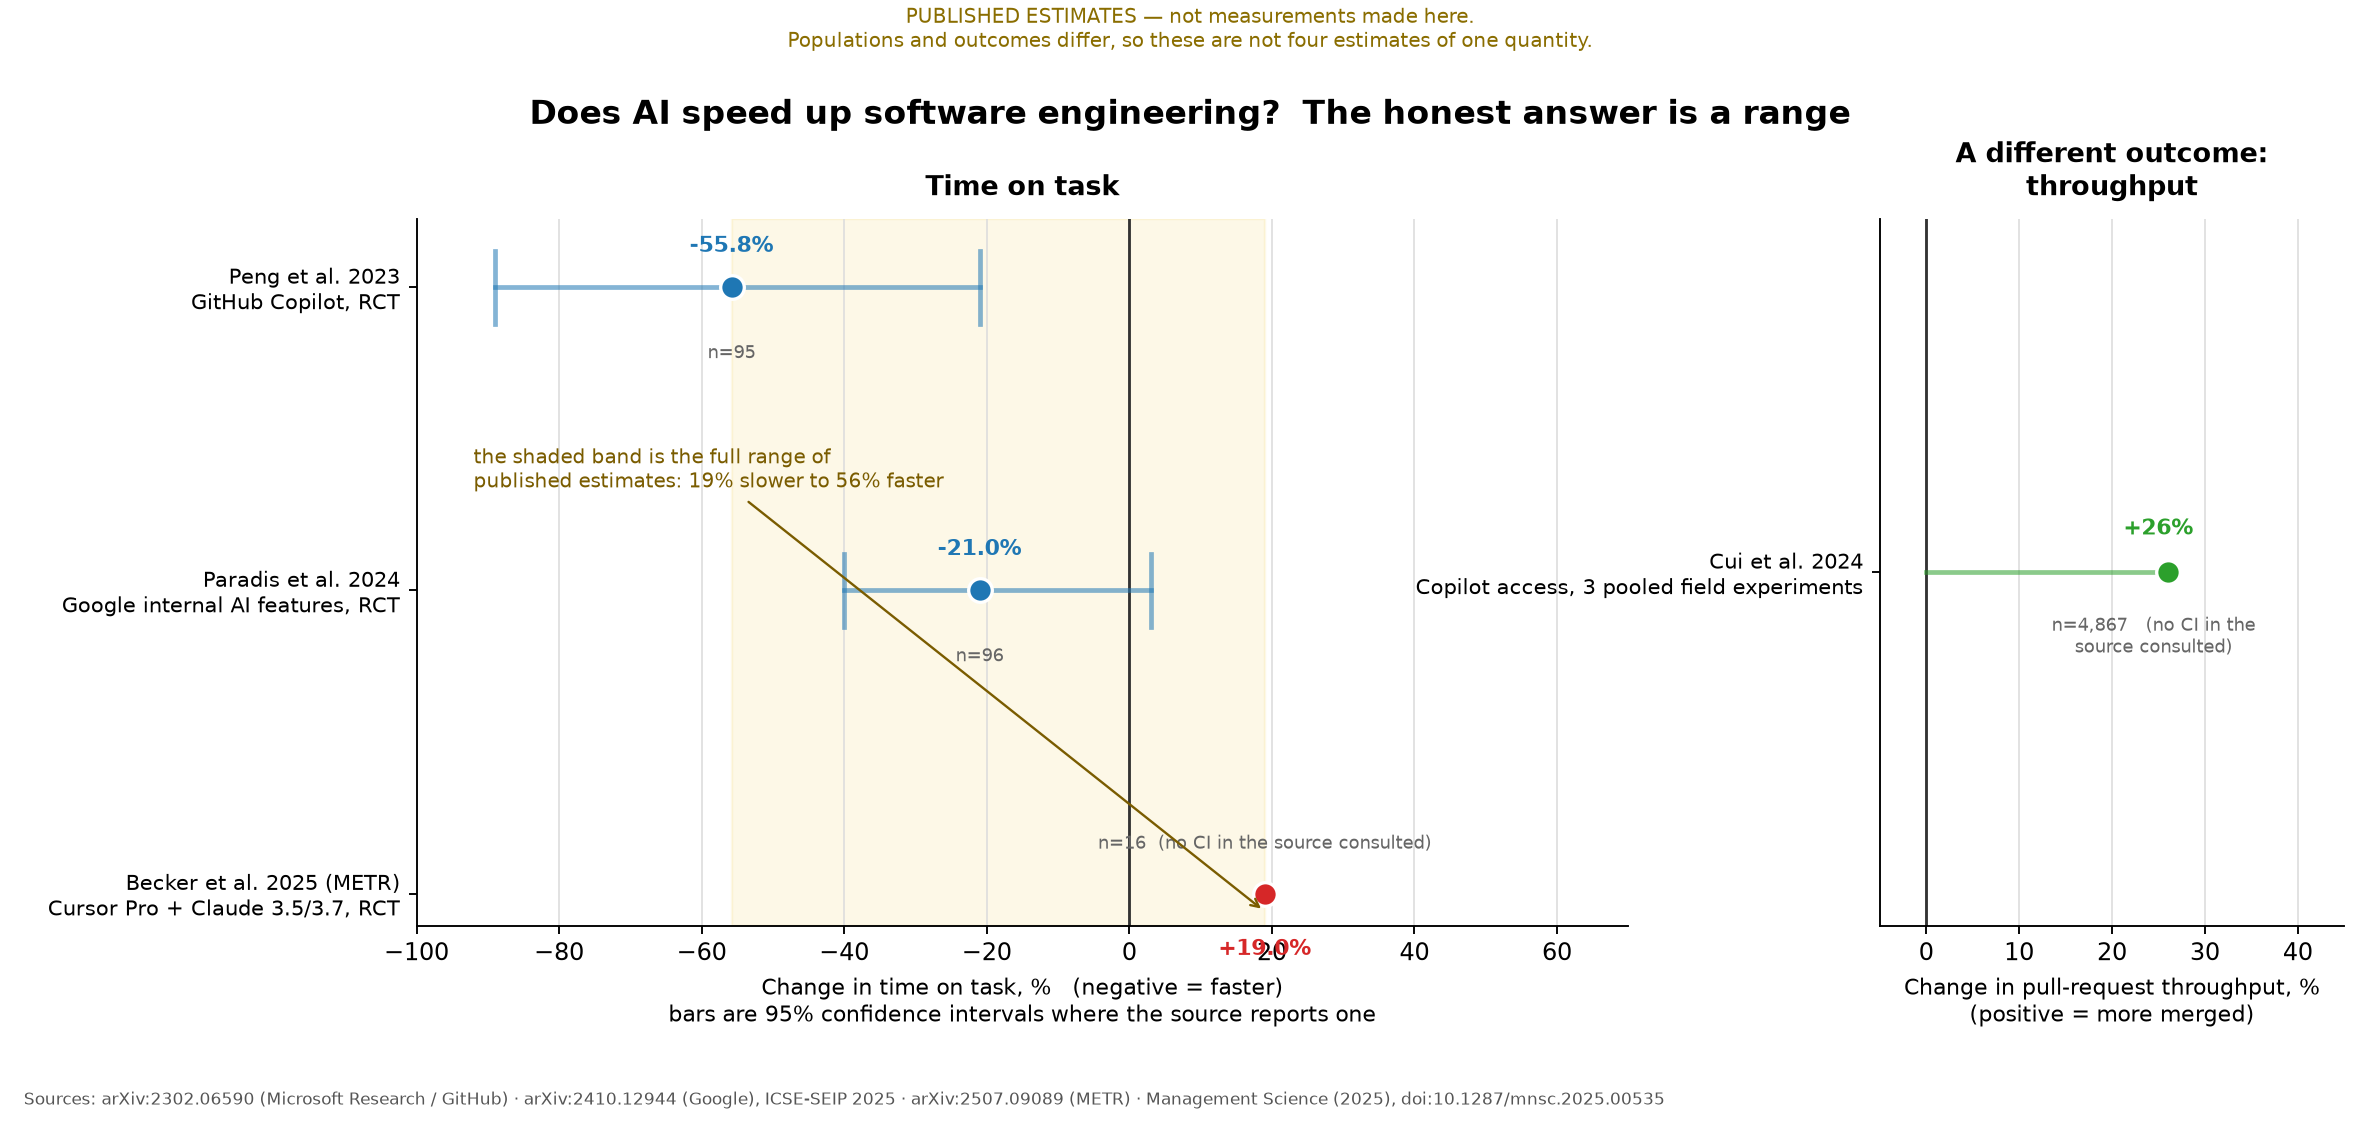
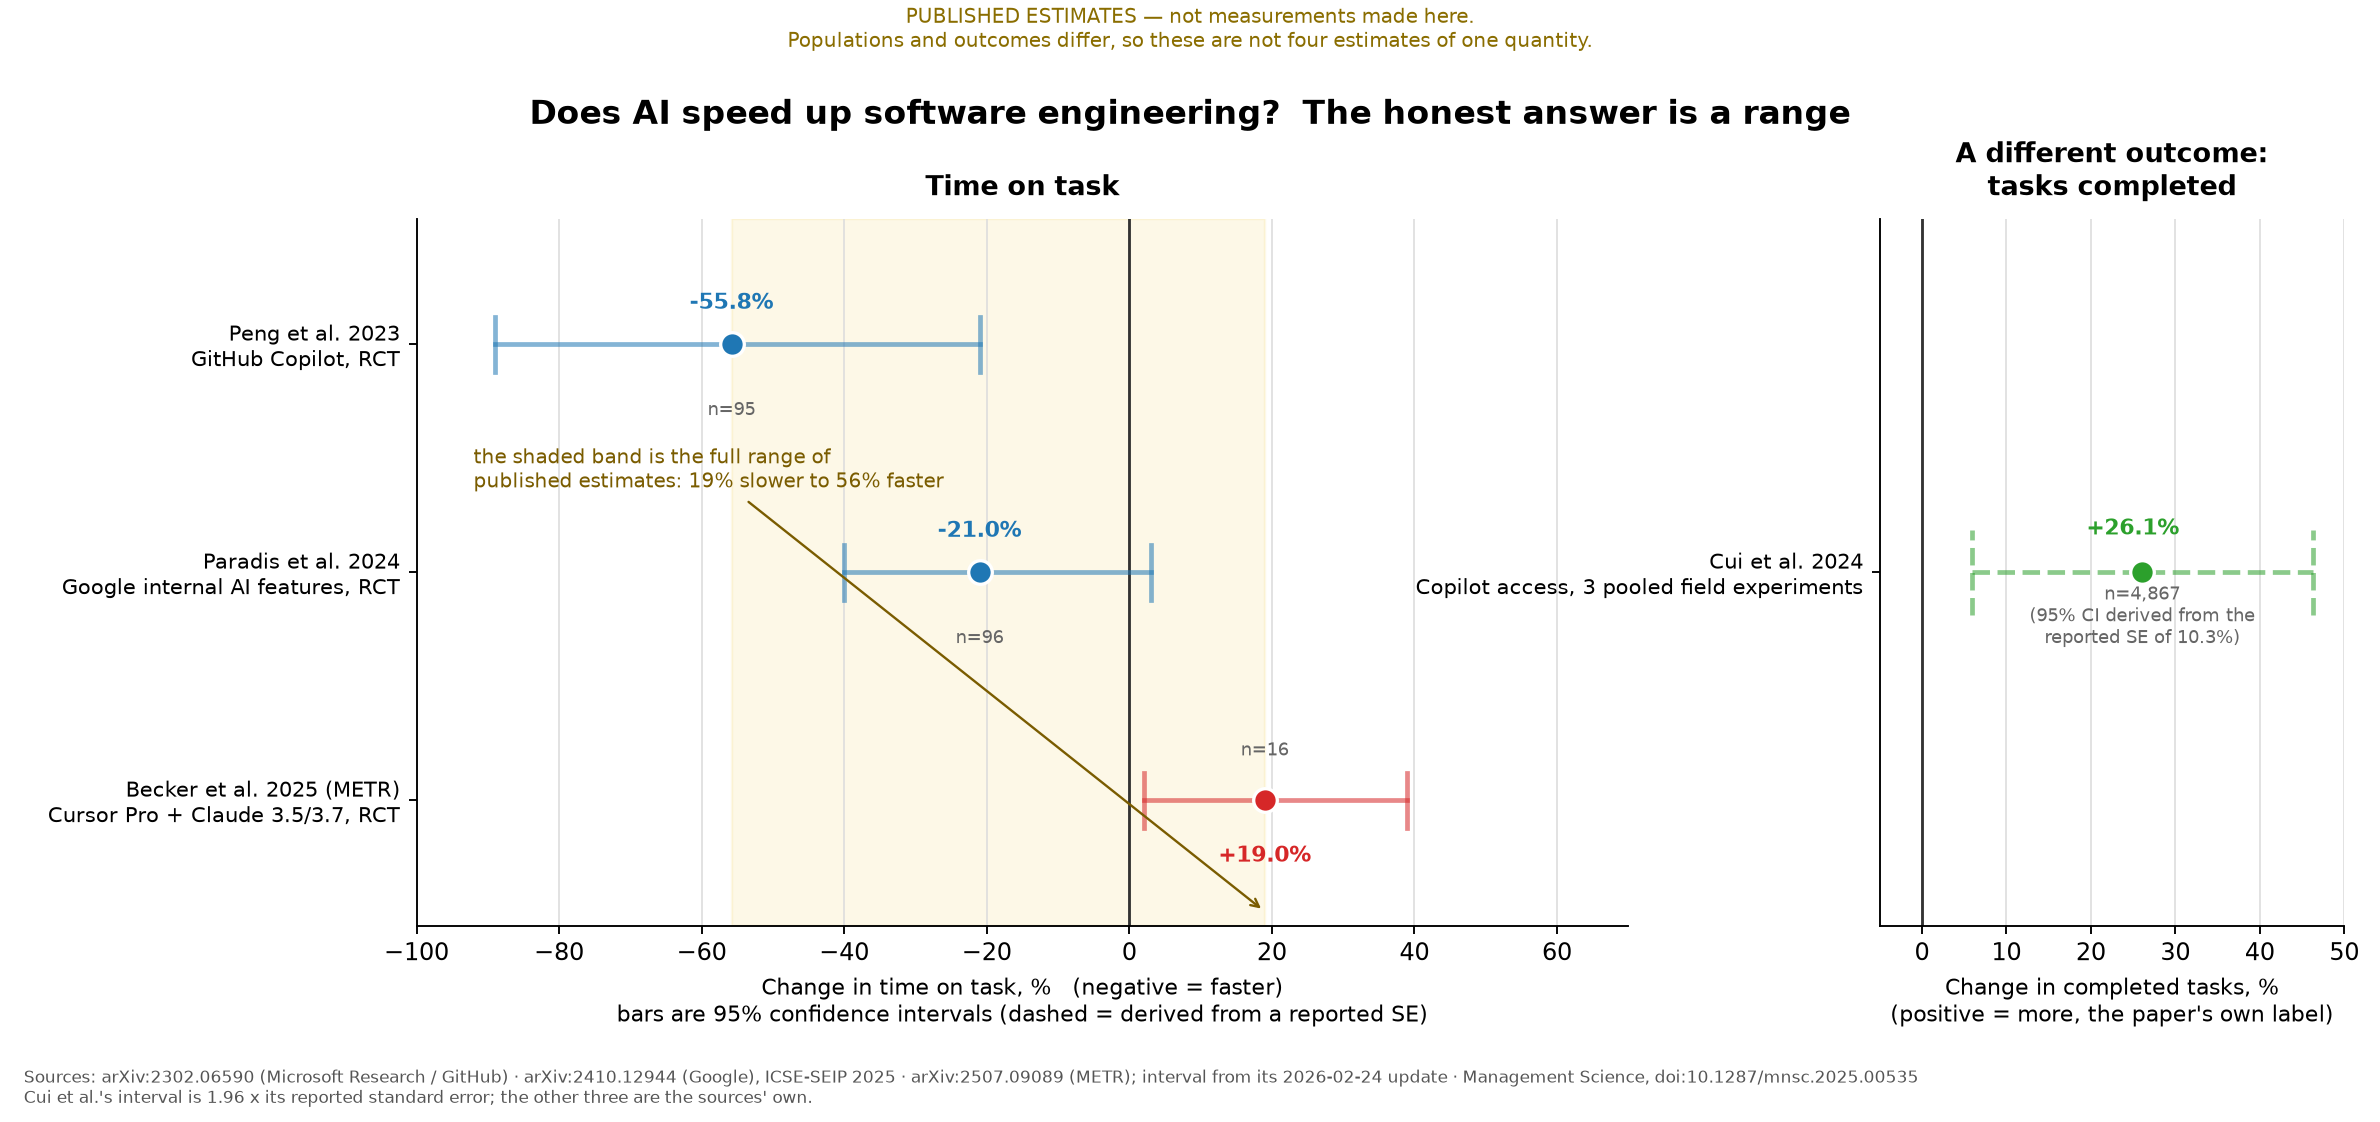
Give every evidence row its interval, and stop the label escaping the axes
Figure 1's right panel printed '(no CI in the source consulted)' against Cui et
al., and so did the METR row. Both sources report uncertainty; the note recorded
a gap in the reading, not in the literature.

* METR: 95% CI [+2, +39]. The paper reports HC3 intervals but prints the
  endpoints only inside a figure, so the pair is quoted from METR's 2026-02-24
  update, which restates it in prose.
* Cui et al.: 26.08% with a reported standard error of 10.3%, which the paper
  publishes instead of an interval. The bar drawn is 1.96 x that SE - arithmetic
  on a published number - so it is drawn dashed and labelled as derived.

interval_of() now answers 'what interval, from where' in one place and
verify_evidence_intervals() fails the --verify run if a row carries no interval
or if the derived one is not that arithmetic.

Also fixes a rendering defect in the same figure: the bottom row's +19.0% label
sat below the axes and collided with the x-axis caption. Explicit y-limits.

Panel 2's outcome is relabelled 'completed tasks', the paper's own wording,
rather than 'pull requests merged', which the source consulted does not say.

diff --git a/tools/plot_ai_catalyst.py b/tools/plot_ai_catalyst.py
@@ -79,9 +79,14 @@ EVIDENCE = [
         "n": 16,
         "measure": "time_on_task",
         "effect": 19.0,
-        "ci": None,
+        # The released paper says it reports 95% confidence intervals (HC3 standard
+        # errors) but prints the endpoints only inside its Figure 15. METR restated
+        # the pair in prose in its 2026-02-24 design update, which is where this is
+        # quoted from rather than eyeballed off a chart.
+        "ci": (2.0, 39.0),
+        "ci_note": "quoted from METR's 2026-02-24 update",
         "task": "Real maintenance tasks in mature\nprojects they maintain",
-        "source": "arXiv:2507.09089 (METR)",
+        "source": "arXiv:2507.09089 (METR); interval from its 2026-02-24 update",
     },
     {
         "key": "cui2024",
@@ -90,12 +95,63 @@ EVIDENCE = [
         "population": "4,867 developers across\nMicrosoft, Accenture and others",
         "n": 4867,
         "measure": "throughput",
-        "effect": 26.0,
+        "effect": 26.08,
+        # The paper prints an effect and a standard error, not an interval:
+        # "a 26.08% increase (standard error: 10.3%) in completed tasks". The bar
+        # drawn is the normal approximation to that pair. It is arithmetic on a
+        # published number, not a new estimate, and it is drawn dashed and labelled
+        # as derived so the two cannot be confused.
         "ci": None,
-        "task": "Daily work, not a set task;\noutcome is pull requests merged",
-        "source": "Management Science (2025), doi:10.1287/mnsc.2025.00535",
+        "se": 10.3,
+        "ci_note": "derived from the reported SE of 10.3%",
+        "task": "Daily work, not a set task;\noutcome is completed tasks",
+        "source": "Management Science, doi:10.1287/mnsc.2025.00535",
     },
 ]
+
+# Normal quantile for a 95% interval, used only to turn a *reported* standard error
+# into the interval drawn beside it. Nothing here is estimated from data.
+Z_95 = 1.959963984540054
+
+
+def interval_of(entry):
+    """The 95% interval for one evidence row, and where it came from.
+
+    Returns ``(low, high, provenance)``, or ``(None, None, "absent")`` when the
+    source consulted gives neither an interval nor a standard error. Provenance is:
+
+    * ``"reported"`` — the source prints the interval itself.
+    * ``"derived"``  — the source prints a standard error; the interval is
+      ``effect +/- 1.96 * se``, drawn dashed and labelled as derived.
+    * ``"absent"``   — nothing to draw. No row is in this state today; the branch
+      exists so that a future row cannot be plotted as if it had an interval.
+
+    This function exists because Figure 1 once printed "(no CI in the source
+    consulted)" against two rows whose sources both *do* report uncertainty. The
+    defect was in the reading, not the literature, so the question "what interval
+    does this row have, and where did it come from?" is now asked in one place.
+    """
+    if entry.get("ci"):
+        return entry["ci"][0], entry["ci"][1], "reported"
+    if entry.get("se"):
+        half = Z_95 * entry["se"]
+        return entry["effect"] - half, entry["effect"] + half, "derived"
+    return None, None, "absent"
+
+
+def interval_note(entry, provenance, narrow=False):
+    """The sample-size caption under a point, plus how its interval was obtained."""
+    note = f"n={entry['n']:,}"
+    if provenance == "derived":
+        why = f"95% CI derived from the reported SE of {entry['se']:.1f}%"
+    elif provenance == "absent":
+        why = "no interval in the source consulted"
+    else:
+        return note
+    if not narrow:
+        return f"{note}  ({why})"
+    head, _, tail = why.partition(" the ")
+    return f"{note}\n({head} the\n{tail})"
 
 # ── Model parameters (declared, not measured) ───────────────────────────────
 #
@@ -245,11 +301,14 @@ def figure_evidence(out_dir):
     ys = list(range(len(time_rows)))[::-1]
     for y, e in zip(ys, time_rows):
         colour = "#1f77b4" if e["effect"] < 0 else "#d62728"
-        if e["ci"]:
-            lo, hi = e["ci"]
-            ax1.plot([lo, hi], [y, y], color=colour, lw=2.0, alpha=0.55, zorder=2)
+        lo, hi, provenance = interval_of(e)
+        dash = "--" if provenance == "derived" else "-"
+        if lo is not None:
+            ax1.plot([lo, hi], [y, y], color=colour, lw=2.0, alpha=0.55,
+                     linestyle=dash, zorder=2)
             for edge in (lo, hi):
-                ax1.plot([edge, edge], [y - 0.12, y + 0.12], color=colour, lw=2.0, alpha=0.55)
+                ax1.plot([edge, edge], [y - 0.12, y + 0.12], color=colour, lw=2.0,
+                         alpha=0.55, linestyle=dash)
         ax1.plot(
             [e["effect"]], [y], marker="o", markersize=10, color=colour,
             markeredgecolor="white", markeredgewidth=1.4, zorder=3,
@@ -264,11 +323,8 @@ def figure_evidence(out_dir):
             fontweight="bold",
             color=colour,
         )
-        note = "n=%s" % f"{e['n']:,}"
-        if not e["ci"]:
-            note += "  (no CI in the source consulted)"
         ax1.annotate(
-            note,
+            interval_note(e, provenance),
             (e["effect"], y),
             textcoords="offset points",
             xytext=(0, -30 if e["effect"] < 0 else 19),
@@ -285,9 +341,12 @@ def figure_evidence(out_dir):
         [f"{e['label']}\n{e['detail']}" for e in time_rows], fontsize=9
     )
     ax1.set_xlim(-100, 70)
+    # Explicit y-limit: the bottom row's effect label sits below its point, and with
+    # the default margin it fell outside the axes and landed on the x-axis caption.
+    ax1.set_ylim(-0.55, len(time_rows) - 0.45)
     ax1.set_xlabel(
         "Change in time on task, %   (negative = faster)\n"
-        "bars are 95% confidence intervals where the source reports one",
+        "bars are 95% confidence intervals (dashed = derived from a reported SE)",
         fontsize=9.5,
     )
     ax1.set_title("Time on task", fontsize=11.5, fontweight="bold", pad=10)
@@ -299,23 +358,31 @@ def figure_evidence(out_dir):
     # ── panel 2: throughput, a different outcome
     y = 0
     e = tp_rows[0]
-    ax2.plot([0, e["effect"]], [y, y], color="#2ca02c", lw=2.0, alpha=0.55, zorder=2)
+    lo, hi, provenance = interval_of(e)
+    dash = "--" if provenance == "derived" else "-"
+    if lo is not None:
+        ax2.plot([lo, hi], [y, y], color="#2ca02c", lw=2.0, alpha=0.55,
+                 linestyle=dash, zorder=2)
+        for edge in (lo, hi):
+            ax2.plot([edge, edge], [y - 0.12, y + 0.12], color="#2ca02c", lw=2.0,
+                     alpha=0.55, linestyle=dash)
     ax2.plot([e["effect"]], [y], marker="o", markersize=10, color="#2ca02c",
              markeredgecolor="white", markeredgewidth=1.4, zorder=3)
-    ax2.annotate(f"{e['effect']:+.0f}%", (e["effect"], y),
+    ax2.annotate(f"{e['effect']:+.1f}%", (e["effect"], y),
                  textcoords="offset points", xytext=(-4, 16),
                  ha="center", fontsize=9.5, fontweight="bold", color="#2ca02c")
-    ax2.annotate(f"n={e['n']:,}   (no CI in the\nsource consulted)",
-                 (e["effect"], y), textcoords="offset points", xytext=(-6, -34),
+    ax2.annotate(interval_note(e, provenance, narrow=True),
+                 (e["effect"], y), textcoords="offset points", xytext=(0, -30),
                  ha="center", fontsize=7.5, color="#666666")
     ax2.axvline(0, color="#333333", lw=1.2, zorder=1)
     ax2.set_yticks([y])
     ax2.set_yticklabels([f"{e['label']}\n{e['detail']}"], fontsize=9)
     ax2.set_ylim(-1.0, 1.0)
-    ax2.set_xlim(-5, 45)
-    ax2.set_xlabel("Change in pull-request throughput, %\n(positive = more merged)",
+    ax2.set_xlim(-5, 50)
+    ax2.set_xlabel("Change in completed tasks, %\n(positive = more, the paper's own label)",
                    fontsize=9.5)
-    ax2.set_title("A different outcome:\nthroughput", fontsize=11.5, fontweight="bold", pad=10)
+    ax2.set_title("A different outcome:\ntasks completed", fontsize=11.5,
+                  fontweight="bold", pad=10)
     ax2.grid(axis="x", color="#dddddd", lw=0.7)
     ax2.set_axisbelow(True)
     for side in ("top", "right"):
@@ -341,7 +408,8 @@ def figure_evidence(out_dir):
         y=0.912,
     )
     _banner(fig, BANNER_EVIDENCE, "#8a6d00")
-    _cite(fig, "Sources: " + " · ".join(e["source"] for e in EVIDENCE))
+    _cite(fig, "Sources: " + " · ".join(e["source"] for e in EVIDENCE)
+          + "\nCui et al.'s interval is 1.96 x its reported standard error; the other three are the sources' own.")
     path = os.path.join(out_dir, "ai-catalyst-1-evidence.png")
     fig.savefig(path, dpi=170)
     plt.close(fig)
@@ -823,6 +891,34 @@ def verify_against_cli(repo_root):
     return results
 
 
+def verify_evidence_intervals():
+    """Every evidence row must carry an interval, and derived ones must be arithmetic.
+
+    Figure 1's first version printed "(no CI in the source consulted)" against two
+    rows. Both sources do report uncertainty — one in prose in a later update, one
+    as a standard error — so the note recorded a gap in the reading rather than in
+    the literature. This check makes a recurrence loud: a row with no interval
+    fails, and so does a derived interval that is not `effect +/- 1.96 * se`.
+    """
+    results = []
+    for e in EVIDENCE:
+        lo, hi, provenance = interval_of(e)
+        if lo is None:
+            results.append((e["label"], "row must carry an interval", False,
+                            "source consulted reports uncertainty"))
+        elif provenance == "derived":
+            half = Z_95 * e["se"]
+            want = (e["effect"] - half, e["effect"] + half)
+            ok = abs(lo - want[0]) < 1e-9 and abs(hi - want[1]) < 1e-9
+            results.append((e["label"],
+                            f"derived CI = effect +/- 1.96 * SE({e['se']:.1f}%)",
+                            ok, f"[{lo:+.2f}, {hi:+.2f}]"))
+        else:
+            results.append((e["label"], "interval quoted from the source", True,
+                            f"[{lo:+.1f}, {hi:+.1f}]"))
+    return results
+
+
 def main():
     ap = argparse.ArgumentParser(description=__doc__)
     ap.add_argument("--out", default="figures", help="output directory for the PNGs")
@@ -846,8 +942,10 @@ def main():
 
     print("\nevidence carried on the figures:")
     for e in EVIDENCE:
-        ci = f"  95% CI [{e['ci'][0]:+.1f}, {e['ci'][1]:+.1f}]" if e["ci"] else "  (no CI)"
-        print(f"  {e['label']:28} {e['measure']:14} {e['effect']:+6.1f}%{ci}  n={e['n']:,}")
+        lo, hi, provenance = interval_of(e)
+        ci = (f"  95% CI [{lo:+.2f}, {hi:+.2f}] ({provenance})" if lo is not None
+              else "  (no interval in the source consulted)")
+        print(f"  {e['label']:28} {e['measure']:14} {e['effect']:+6.2f}%{ci}  n={e['n']:,}")
 
     print("\nthe conversion the figures rest on (time change -> productivity gain):")
     for name, t in [("Peng 2023", -0.558), ("Google 2024", -0.21), ("METR 2025", +0.19)]:
@@ -868,8 +966,15 @@ def main():
         print(f"    rho={rho:.1f} -> {g*100:6.1f}%")
 
     if args.verify:
-        print("\nverification against the optimizer binary:")
         ok = True
+
+        print("\nevidence intervals carried on Figure 1:")
+        for label, why, passed, note in verify_evidence_intervals():
+            if not passed:
+                ok = False
+            print(f"  {'OK      ' if passed else 'MISMATCH'}  {label:28} {why:42} {note}")
+
+        print("\nverification against the optimizer binary:")
         for case, formula, reported, expected in verify_against_cli(repo_root):
             f = "none" if formula is None else f"{formula*100:.1f}%"
             r = "not run" if reported is None else f"{reported*100:.0f}%"

diff --git a/AI_AS_CATALYST.md b/AI_AS_CATALYST.md
@@ -39,16 +39,32 @@ different things:
 | --- | --- | --- | --- | --- |
 | [Peng et al. 2023](https://arxiv.org/abs/2302.06590) | RCT | 95 freelancers, mostly early-career, recruited on Upwork | Time to write one HTTP server, 12 hidden tests | **55.8% faster** (95% CI 21–89%) |
 | [Paradis et al. 2024](https://arxiv.org/abs/2410.12944) | RCT | 96 Google engineers, C++, 1+ year tenure | Time on an enterprise-grade task in a monorepo | **21% faster** (95% CI −3 to +40%) |
-| [Becker et al. 2025 (METR)](https://arxiv.org/abs/2507.09089) | RCT | 16 experienced open-source maintainers | Time on real maintenance tasks in their own mature projects | **19% slower** |
-| [Cui et al. 2024](https://doi.org/10.1287/mnsc.2025.00535) | 3 pooled field experiments | 4,867 developers | Pull requests merged, in daily work | **26% more throughput** |
+| [Becker et al. 2025 (METR)](https://arxiv.org/abs/2507.09089) | RCT | 16 experienced open-source maintainers | Time on real maintenance tasks in their own mature projects | **19% slower** (95% CI +2 to +39%) |
+| [Cui et al. 2024](https://doi.org/10.1287/mnsc.2025.00535) | 3 pooled field experiments | 4,867 developers | Completed tasks, in daily work | **26.08% more** (SE 10.3% → 95% CI ≈ +6 to +46) |
+
+Where the intervals come from matters, so they are not presented as one kind of thing:
+
+- Peng and Paradis print their intervals directly.
+- METR reports 95% intervals from HC3 standard errors but the released paper prints
+  the endpoints only inside a figure. The pair above is quoted from METR's
+  [February 2026 update](https://metr.org/blog/2026-02-24-uplift-update/), which
+  restates it in prose. That post also reports that METR no longer trusts its own
+  later data, for selection reasons it sets out — the 2025 estimate stands, the
+  continuation does not.
+- Cui et al. print an effect with a **standard error**, not an interval. The interval
+  above is the normal approximation to the pair they published (`1.96 × 10.3%`). That
+  is arithmetic on a reported number, not a new estimate, and the figure draws it
+  dashed to keep the two apart.
 
 Three cautions that a bar chart would have hidden, and that the figure is drawn to
 expose:
 
-1. **The confidence intervals overlap almost everything.** Peng's runs from 21% to 89%
-   faster. Google's runs from 3% slower to 40% faster and is *not* significant once
-   covariates are included. An interval that wide is not a number to plan with.
-2. **Only one study measures throughput in real work**, and it measures pull requests,
+1. **Only one interval is comfortably clear of zero.** Peng's runs from 21% to 89%
+   faster and METR's from 2% to 39% slower, so each excludes no-effect on its own.
+   Google's runs from 3% slower to 40% faster and is *not* significant once covariates
+   are included; Cui's runs from 6% to 46% more and its lower bound is thin. An
+   interval that wide is not a number to plan with.
+2. **Only one study measures output in real work**, and it counts *completed tasks*,
    which count work started as well as work finished. It is a different quantity from
    time on task, which is why it sits in its own panel rather than on the same axis.
 3. **Peng et al. say what they did not measure**: *"this study does not examine the
@@ -298,8 +314,10 @@ python tools/plot_ai_catalyst.py --verify    # also checks the closed forms agai
 ```
 
 Five figures come out of one script: two of published evidence and three of model
-output. `--verify` runs the optimizer on three `(goal, gain)` pairs, checks that the
-script's closed form predicts the percentage the binary recommends, and reads back the
-four constants behind Figure 5 — the hidden-work figure, the amortised workload, and
-the §2 floor and net-income lines. If the model's arithmetic or the tax engine changes,
-the check fails rather than the figures quietly going stale.
+output. `--verify` checks first that every evidence row carries an interval and that
+the one derived from a standard error is that arithmetic, then runs the optimizer on
+three `(goal, gain)` pairs, checks that the script's closed form predicts the
+percentage the binary recommends, and reads back the four constants behind Figure 5 —
+the hidden-work figure, the amortised workload, and the §2 floor and net-income lines.
+If the model's arithmetic or the tax engine changes, the check fails rather than the
+figures quietly going stale.
